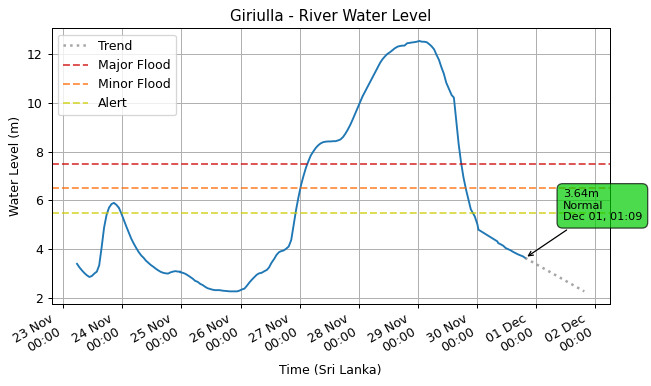
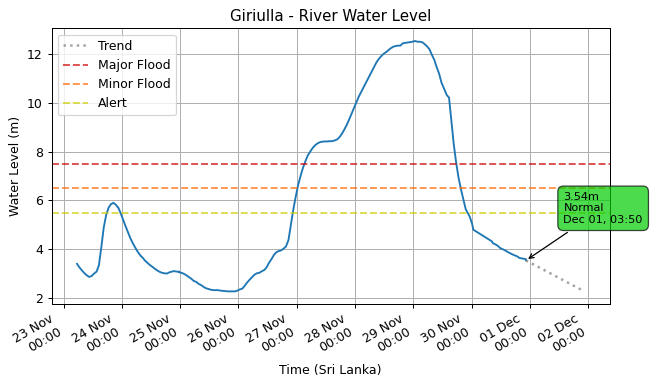
🤖 [update_latest.yml] 2025-11-30-2222

diff --git a/README.md b/README.md
@@ -1,11 +1,11 @@
 # lk_irrigation 🇱🇰
 
 ![Status: Live](https://img.shields.io/badge/status-live-brightgreen)
-![LastUpdated](https://img.shields.io/badge/last_updated-2025--12--01_03:22:02-green)
+![LastUpdated](https://img.shields.io/badge/last_updated-2025--12--01_03:50:28-green)
 
 Realtime Data about *River Water Levels* in Sri Lanka, from the [Irrigation Deptartment](https://www.irrigation.gov.lk)'s [Hydrology and Disaster Management](https://www.irrigation.gov.lk/web/index.php?option=com_content&view=article&id=27&Itemid=128&lang=en) Division.
 
-- [Complete Dataset](data/rwlds) with **6,343 measurements** from **39** stations.
+- [Complete Dataset](data/rwlds) with **6,346 measurements** from **39** stations.
 - [Scrape and load logic](src/lk_irrigation/rwld/RiverWaterLevelDataLoadMixin.py)
 - [Original Data source](https://www.arcgis.com/apps/dashboards/2cffe83c9ff5497d97375498bdf3ff38)
 
@@ -15,10 +15,13 @@ Realtime Data about *River Water Levels* in Sri Lanka, from the [Irrigation Dept
 
 ## Latest measurements
 
-*There were **26** measurements in the last **1 hour**.*
+*There were **29** measurements in the last **1 hour**.*
 
 | Measured At | Station (River Basin) | Level (m) | Alert Level | Rate-of-Rise (m/hr) | Rising Alert |
 | --- | --- | ---: | --- | ---: | --- |
+| 2025-12-01 03:50:28 | Giriulla (Maha Oya) | 3.54 | 🟢 Normal | -10.588 |  |
+| 2025-12-01 03:50:11 | Giriulla (Maha Oya) | 3.59 | 🟢 Normal | -10.588 |  |
+| 2025-12-01 03:49:14 | Holombuwa (Kelani Ganga) | 1.42 | 🟢 Normal | -0.018 |  |
 | 2025-12-01 03:22:02 | Dunamale (Aththanagalu Oya) | 4.74 | 🟠 Minor Flood | -0.045 |  |
 | 2025-12-01 03:21:15 | Putupaula (Kalu Ganga) | 4.29 | 🟠 Minor Flood | 0.000 |  |
 | 2025-12-01 03:20:45 | Norwood (Kelani Ganga) | 1.33 | 🟢 Normal | -0.023 |  |
@@ -76,9 +79,9 @@ Realtime Data about *River Water Levels* in Sri Lanka, from the [Irrigation Dept
 | 2025-12-01 02:01:36 | Kuda Oya (Kirindi Oya) | 1.94 | 🟢 Normal | 0.000 |  |
 | 2025-12-01 03:06:15 | Thalgahagoda (Nilwala Ganga) | 1.01 | 🟢 Normal | -0.010 |  |
 | 2025-12-01 03:19:15 | Deraniyagala (Kelani Ganga) | 1.43 | 🟢 Normal | -0.017 |  |
+| 2025-12-01 03:49:14 | Holombuwa (Kelani Ganga) | 1.42 | 🟢 Normal | -0.018 |  |
 | 2025-12-01 03:05:25 | Yaka Wewa (Ma Oya) | 1.27 | 🟢 Normal | -0.019 |  |
 | 2025-12-01 03:02:27 | Pitabeddara (Nilwala Ganga) | 1.10 | 🟢 Normal | -0.020 |  |
-| 2025-12-01 02:08:18 | Holombuwa (Kelani Ganga) | 1.45 | 🟢 Normal | -0.020 |  |
 | 2025-12-01 03:02:07 | Nakkala (Kumbukkan Oya) | 1.74 | 🟢 Normal | -0.020 |  |
 | 2025-12-01 03:07:55 | Thanamalwila (Kirindi Oya) | 1.62 | 🟢 Normal | -0.020 |  |
 | 2025-12-01 03:02:46 | Urawa (Nilwala Ganga) | 0.75 | 🟢 Normal | -0.020 |  |
@@ -88,9 +91,9 @@ Realtime Data about *River Water Levels* in Sri Lanka, from the [Irrigation Dept
 | 2025-12-01 03:05:04 | Moraketiya (Walawe Ganga) | 1.30 | 🟢 Normal | -0.036 |  |
 | 2025-12-01 03:02:58 | Kithulgala (Kelani Ganga) | 2.35 | 🟢 Normal | -0.045 |  |
 | 2025-12-01 02:05:50 | Magura (Kalu Ganga) | 2.30 | 🟢 Normal | -0.055 |  |
-| 2025-12-01 01:09:10 | Giriulla (Maha Oya) | 3.64 | 🟢 Normal | -0.073 |  |
 | 2025-12-01 03:06:56 | Glencourse (Kelani Ganga) | 14.21 | 🟢 Normal | -0.230 |  |
 | 2025-12-01 03:02:10 | Nawalapitiya (Mahaweli Ganga) | 1.96 | 🟢 Normal | -1.565 |  |
+| 2025-12-01 03:50:28 | Giriulla (Maha Oya) | 3.54 | 🟢 Normal | -10.588 |  |
 
 ## River Water Level Charts by Station
 
@@ -190,6 +193,10 @@ Realtime Data about *River Water Levels* in Sri Lanka, from the [Irrigation Dept
 
 ![Deraniyagala](images/stations/deraniyagala.png)
 
+### Holombuwa (Kelani Ganga)
+
+![Holombuwa](images/stations/holombuwa.png)
+
 ### Yaka Wewa (Ma Oya)
 
 ![Yaka Wewa](images/stations/yaka-wewa.png)
@@ -197,10 +204,6 @@ Realtime Data about *River Water Levels* in Sri Lanka, from the [Irrigation Dept
 ### Pitabeddara (Nilwala Ganga)
 
 ![Pitabeddara](images/stations/pitabeddara.png)
-
-### Holombuwa (Kelani Ganga)
-
-![Holombuwa](images/stations/holombuwa.png)
 
 ### Nakkala (Kumbukkan Oya)
 
@@ -238,10 +241,6 @@ Realtime Data about *River Water Levels* in Sri Lanka, from the [Irrigation Dept
 
 ![Magura](images/stations/magura.png)
 
-### Giriulla (Maha Oya)
-
-![Giriulla](images/stations/giriulla.png)
-
 ### Glencourse (Kelani Ganga)
 
 ![Glencourse](images/stations/glencourse.png)
@@ -249,6 +248,10 @@ Realtime Data about *River Water Levels* in Sri Lanka, from the [Irrigation Dept
 ### Nawalapitiya (Mahaweli Ganga)
 
 ![Nawalapitiya](images/stations/nawalapitiya.png)
+
+### Giriulla (Maha Oya)
+
+![Giriulla](images/stations/giriulla.png)
 
 ![Maintainer](https://img.shields.io/badge/maintainer-nuuuwan-red)
 ![MadeWith](https://img.shields.io/badge/made_with-python-blue)
